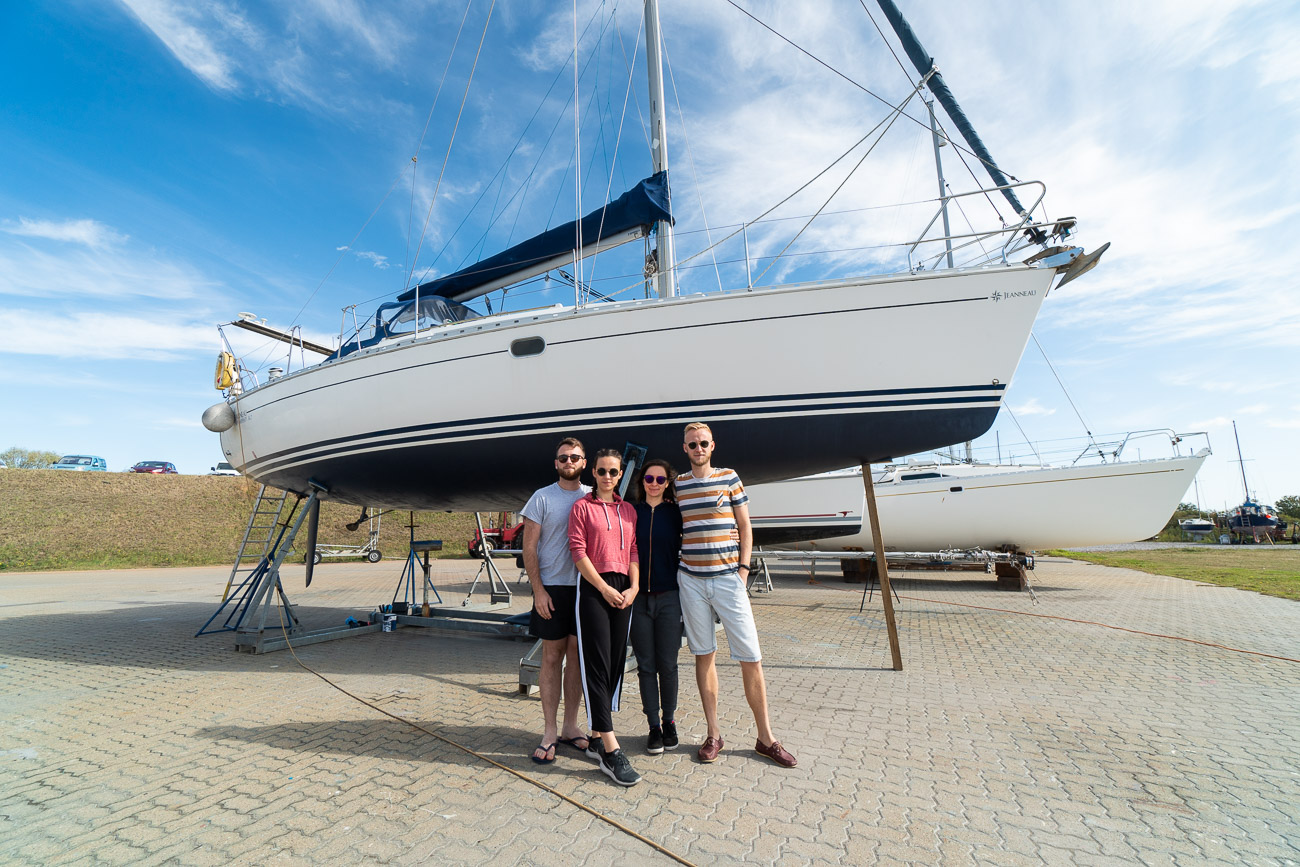
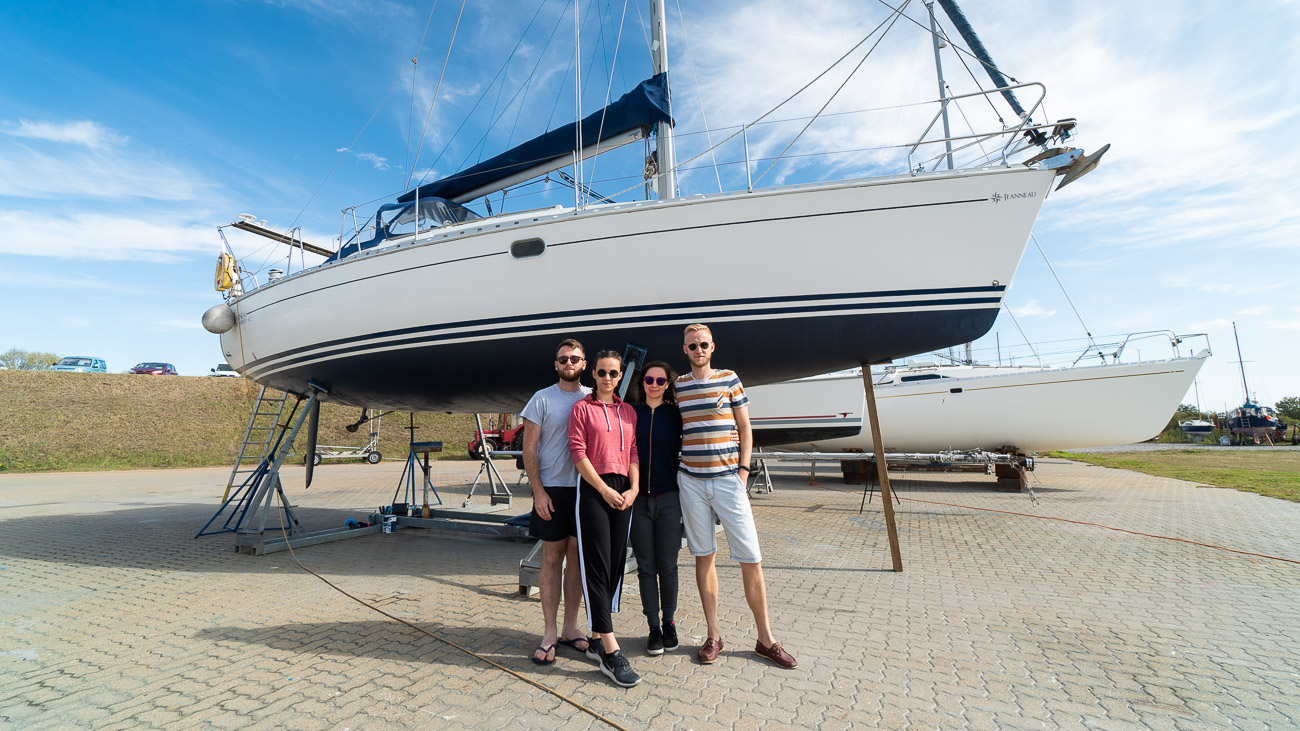
Text for the crew page.

diff --git a/resources/sass/app.scss b/resources/sass/app.scss
@@ -11,4 +11,5 @@
 @import "partials/boat-specs.scss";
 @import "partials/content.scss";
 @import "partials/contact.scss";
+@import "partials/crew.scss";
 @import "partials/home-crew.scss";

diff --git a/resources/sass/partials/crew.scss b/resources/sass/partials/crew.scss
@@ -1,0 +1,8 @@
+.crew h2 {
+    font-family: $font-serif;
+    font-size: 1.6em;
+    font-weight: normal;
+    margin: 0 auto 20px;
+    max-width: 800px;
+    padding: 0 25px;
+}

diff --git a/resources/sass/partials/content.scss b/resources/sass/partials/content.scss
@@ -10,6 +10,9 @@
     margin: 60px auto;
     width: 100%;
 }
+.content__photo--crew {
+    max-width: 1000px;
+}
 .content p {
     font-family: $font-serif;
     font-size: 1em;

diff --git a/resources/lang/pl/pages.php b/resources/lang/pl/pages.php
@@ -21,13 +21,15 @@ return [
         'description' => 'Poznaj załogę jachtu Moonshine płynącego dookoła Europy.',
         'keywords' => 'załoga, żeglarstwo, żagle, jacht, żeglarskie video, żeglarskie filmy',
         'photo_alt' => 'Załoga Moonshine',
+        'names' => 'Marta, Jola, Wojtek & Łukasz',
         'above_photo' => [
-            'row1' => 'Lorem ipsum dolor sit amet, consectetur adipiscing elit. Donec malesuada mattis dui volutpat auctor. Phasellus ligula ipsum, elementum sit amet pharetra nec, finibus non libero. Suspendisse ullamcorper porttitor blandit.',
-            'row2' => 'Curabitur aliquam urna ex, eget molestie nulla aliquet et. Phasellus at porttitor nulla, vel venenatis turpis. Integer tincidunt tortor id nunc viverra suscipit. Quisque sed imperdiet est, a laoreet lectus.',
+            'row1' => 'Witaj w dzienniku naszej podróży! Jesteśmy czworgiem przyjaciół, którzy poznali się kilka lat temu w trakcie studiów w Krakowie. Od 2014 roku (nie)regularnie podróżujemy (razem i osobno) i mimo, że mieszkaliśmy w różnych miejscach świata (Kraków, Warszawa, Lizbona, Amsterdam, Tokio), udało nam się utrzymać świetny kontakt i podtrzymać miłość do odkrywania na nowo miejsc już odkrytych.',
         ],
         'below_photo' => [
-            'row1' => 'Lorem ipsum dolor sit amet, consectetur adipiscing elit. Donec malesuada mattis dui volutpat auctor. Phasellus ligula ipsum, elementum sit amet pharetra nec, finibus non libero. Suspendisse ullamcorper porttitor blandit.',
-            'row2' => 'Curabitur aliquam urna ex, eget molestie nulla aliquet et. Phasellus at porttitor nulla, vel venenatis turpis. Integer tincidunt tortor id nunc viverra suscipit. Quisque sed imperdiet est, a laoreet lectus.',
+            'row1' => 'We wrześniu 2019 roku udało nam się zrealizować jeden z naszych najbardziej szalonych planów - kupiliśmy 11-metrowy jacht żaglowy, na którym zamierzamy mieszkać i pływać przez następny rok.',
+            'row2' => 'Decyzja o zmianie stylu życia poprzedzona była dwoma latami czasochłonnych przygotowań związanych zarówno ze znalezieniem odpowiedniej łódki, jak i poprawieniem naszych umiejętności. W tym roku planujemy wypłynąć z Burnham on Crouch (Wielka Brytania) i popłynąć na południe ku cieplejszej pogodzie.',
+            'row3' => 'Ta strona będzie naszym dziennikiem, sposobem na utrwalenie wspomnień i utwierdzenie rodziców w przekonaniu, że jesteśmy bezpieczni i dobrze się bawimy (Mamo, jest super!).',
+            'row4' => 'Dzięki za odwiedziny. Zapraszamy na pozostałe podstrony i na nasze profile społecznościowe.',
         ]
     ],
     'boat' => [

diff --git a/resources/lang/en/pages.php b/resources/lang/en/pages.php
@@ -21,14 +21,16 @@ return [
         'description' => 'Meet the crew of the sailing yacht Moonshine cruising around the Europe.',
         'keywords' => 'crew, sailing, sails, yacht, sailing videos',
         'photo_alt' => 'The Crew of Moonshine',
+        'names' => 'Marta, Jola, Wojtek i Łukasz',
         'above_photo' => [
-            'row1' => 'Lorem ipsum dolor sit amet, consectetur adipiscing elit. Donec malesuada mattis dui volutpat auctor. Phasellus ligula ipsum, elementum sit amet pharetra nec, finibus non libero. Suspendisse ullamcorper porttitor blandit.',
-            'row2' => 'Curabitur aliquam urna ex, eget molestie nulla aliquet et. Phasellus at porttitor nulla, vel venenatis turpis. Integer tincidunt tortor id nunc viverra suscipit. Quisque sed imperdiet est, a laoreet lectus.',
+            'row1' => 'Welcome to our travel journal! We are a group of four friends who first met few years back during university in Kraków. Since 2014 we are travelling (both together and solo) and despite moving around (we lived in Kraków, Warsaw, Lisbon, Tokyo and Amsterdam) we managed to stay in touch and keep rediscovering places already discovered.',
         ],
         'below_photo' => [
-            'row1' => 'Lorem ipsum dolor sit amet, consectetur adipiscing elit. Donec malesuada mattis dui volutpat auctor. Phasellus ligula ipsum, elementum sit amet pharetra nec, finibus non libero. Suspendisse ullamcorper porttitor blandit.',
-            'row2' => 'Curabitur aliquam urna ex, eget molestie nulla aliquet et. Phasellus at porttitor nulla, vel venenatis turpis. Integer tincidunt tortor id nunc viverra suscipit. Quisque sed imperdiet est, a laoreet lectus.',
-        ]
+            'row1' => 'In September 2019 we made our craziest idea live - we bought a 36-feet long sailing yacht. We intent to live on board and sail Europe during the next year.',
+            'row2' => 'The decision of changing the lifestyle was preceded by two years of a time-consuming planning and searching for a perfect boat, as well as improving our skills. This year we are hoping to set the sails in Burnham on Crouch (UK) and sail south towards the warmer weather.',
+            'row3' => 'This website will be our journal, a place to keep our memories and make sure our parents know we are safe and we are having fun!',
+            'row4' => 'Thanks for visiting us. We encourage you to check other pages and our social media where we post quite regularly.',
+        ],
     ],
     'boat' => [
         'title' => 'The Yacht',

diff --git a/resources/views/pages/crew.blade.php b/resources/views/pages/crew.blade.php
@@ -18,16 +18,19 @@
 </header>
 
 
-<div class='content content--spaced'>
+<div class='content content--spaced crew'>
+    <h2>{!! __('pages.crew.names') !!}</h2>
     @foreach (__('pages.crew.above_photo') as $row)
         <p>{{ $row }}</p>
     @endforeach
-
-    <img src='{{ asset('img/crew.jpg') }}' alt='{{ __('pages.crew.photo_alt') }}' class='content__photo'>
+    
+    <img src='{{ asset('img/crew.jpg') }}' alt='{{ __('pages.crew.photo_alt') }}' class='content__photo content__photo--crew'>
 
     @foreach (__('pages.crew.below_photo') as $row)
         <p>{{ $row }}</p>
     @endforeach
+
+
 </div>
 
 @endsection
